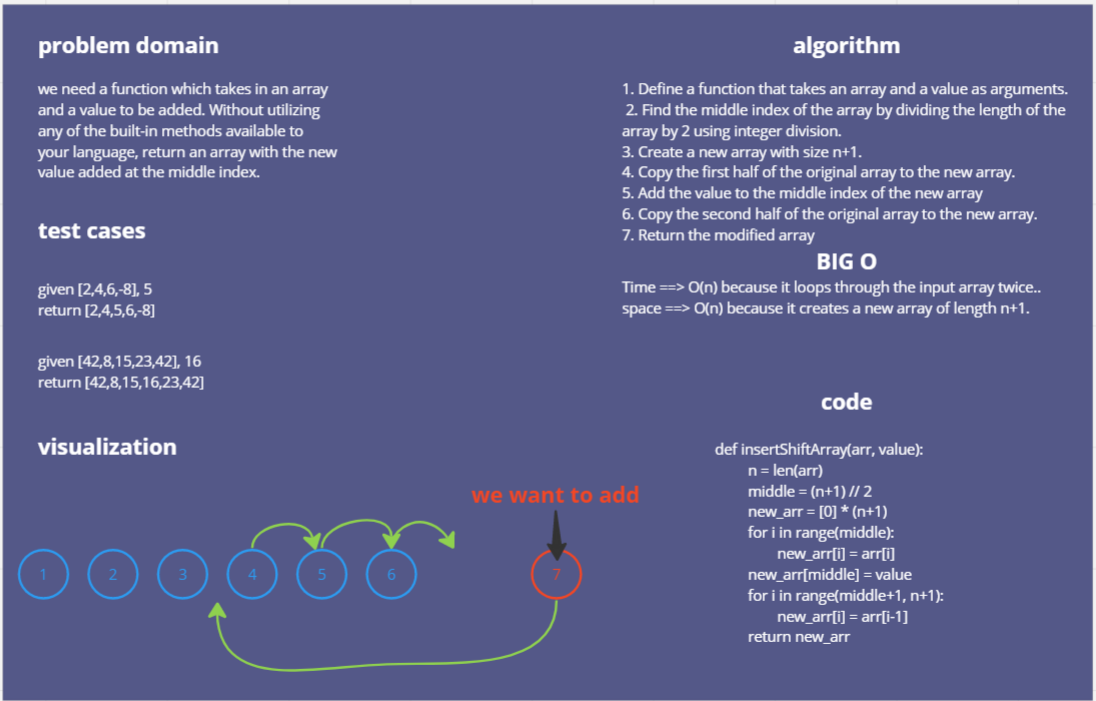
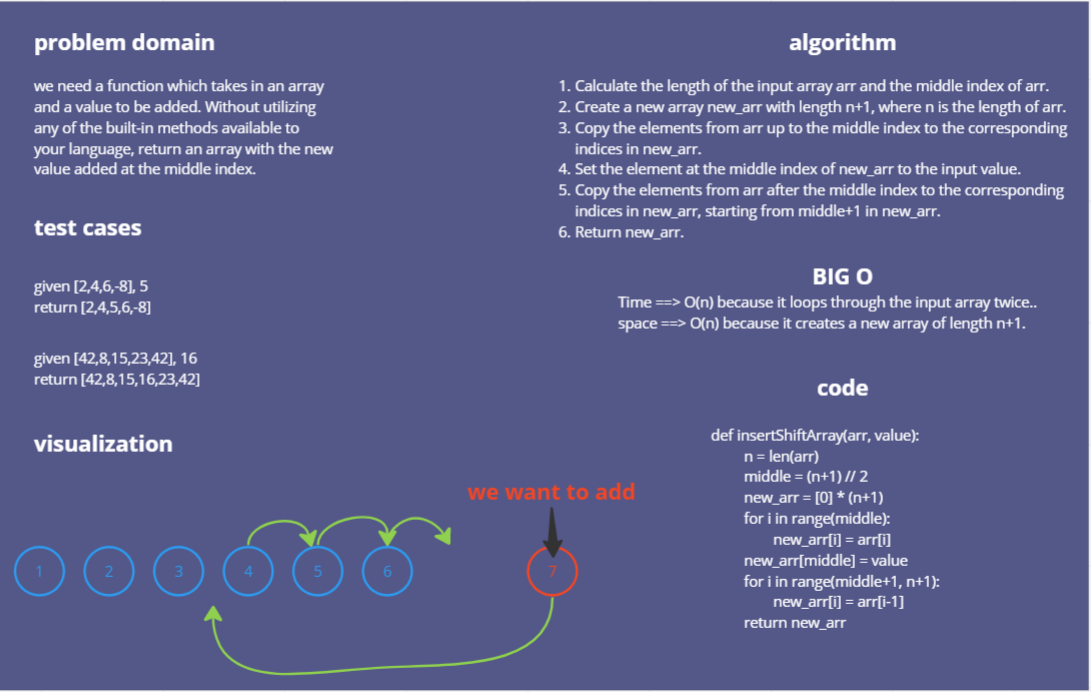
fixed the code and the algoritham

diff --git a/array-insert-shift/README.md b/array-insert-shift/README.md
@@ -12,7 +12,7 @@ we need a function which takes in an array and a value to be added. Without util
 
 
 ## Approach:
-The add_value_to_middle function creates a new array of length n+1, where n is the length of the input array. It then loops through the first half of the input array to copy the elements to the new array, inserts the new value in the middle of the new array, and loops through the second half of the input array to copy the remaining elements to the new array.
+The function takes an input array arr and an input value value, and inserts the value at the middle index of the array. To do this, it creates a new array new_arr of length n+1 where n is the length of arr. It then copies the first half of the elements of arr to new_arr, inserts the input value at the middle index, and copies the second half of the elements of arr to new_arr. Finally, it returns the new array new_arr.
 
 ## Efficiency:
 This function has a time complexity of O(n), where n is the length of the input array, because it loops through the input array twice. The space complexity is also O(n), because it creates a new array of length n+1.
